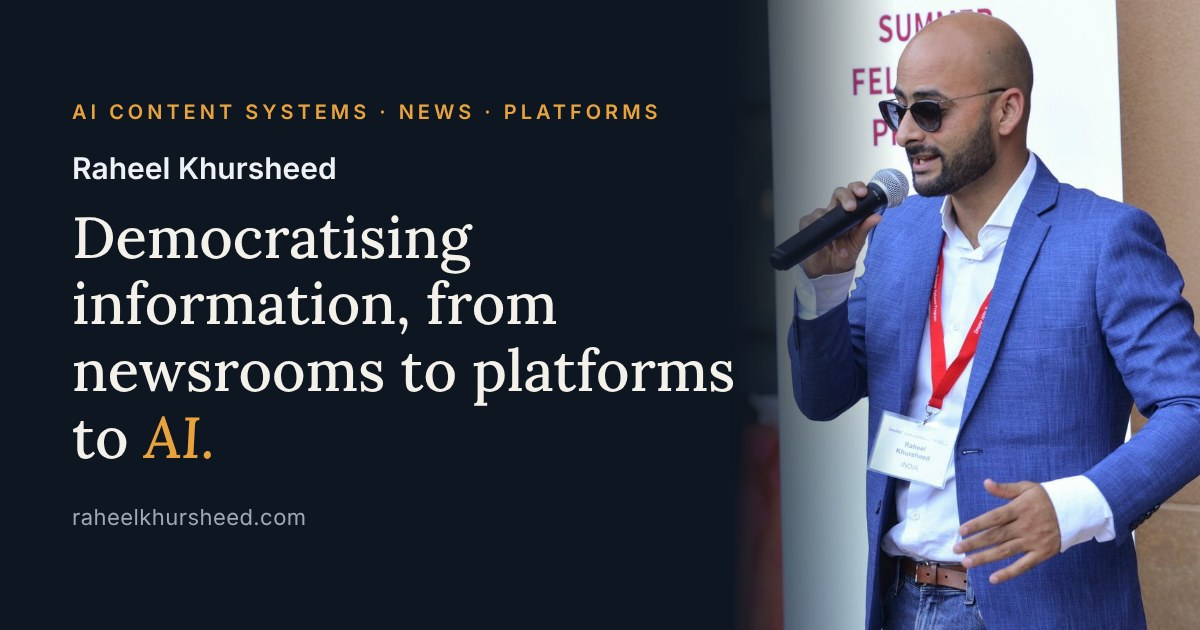
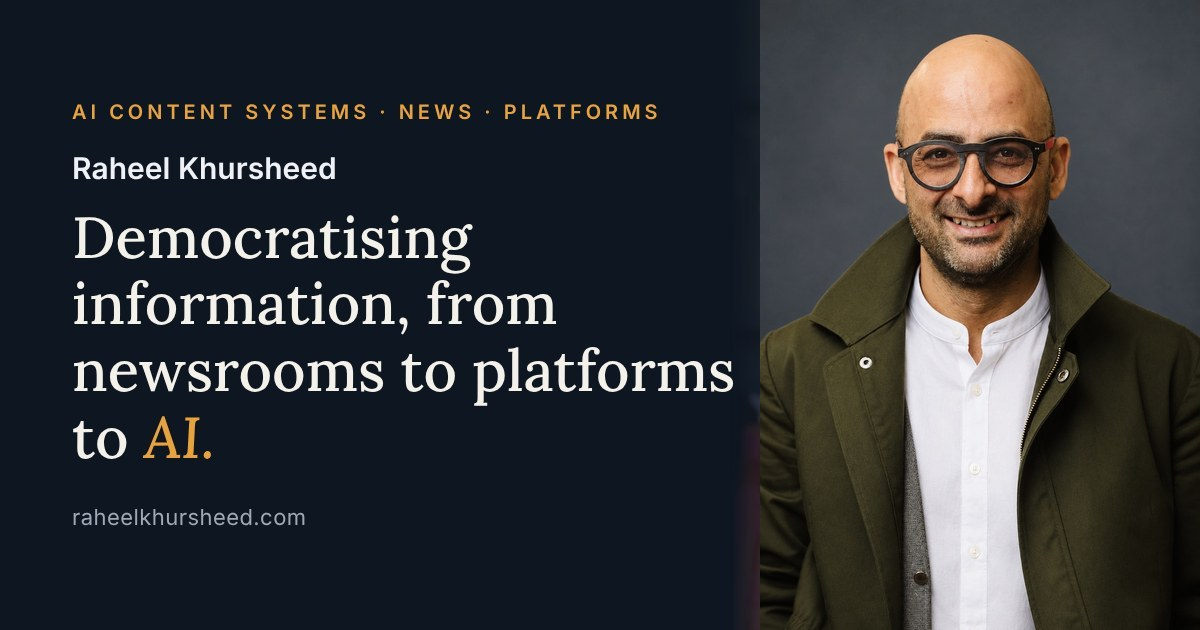
raheelkhursheed.com: new headshot for portrait and share image
Claude-Session: https://claude.ai/code/session_01UJz8apxCipeN7JJQXKGrbm

diff --git a/sites/raheelkhursheed.com/index.html b/sites/raheelkhursheed.com/index.html
@@ -166,8 +166,7 @@ footer .wrap{padding-block:22px;color:var(--muted);display:flex;justify-content:
       <p class="lede">For twenty years I have worked on the layer where people meet information. <strong>First reporting the news from Delhi and Kashmir, then building how it moves at Twitter, Snap and Change.org, and now building with AI.</strong> I write about how AI is reshaping trust, information and the public sphere.</p>
     </div>
     <figure class="portrait">
-      <img src="portrait.jpg" width="720" height="900" alt="Raheel Khursheed speaking into a microphone at the Draper Hills Summer Fellows Program, Stanford University">
-      <figcaption class="mono">Stanford University · 2018</figcaption>
+      <img src="portrait.jpg" width="720" height="900" alt="Portrait of Raheel Khursheed">
     </figure>
   </div>
 </header>
